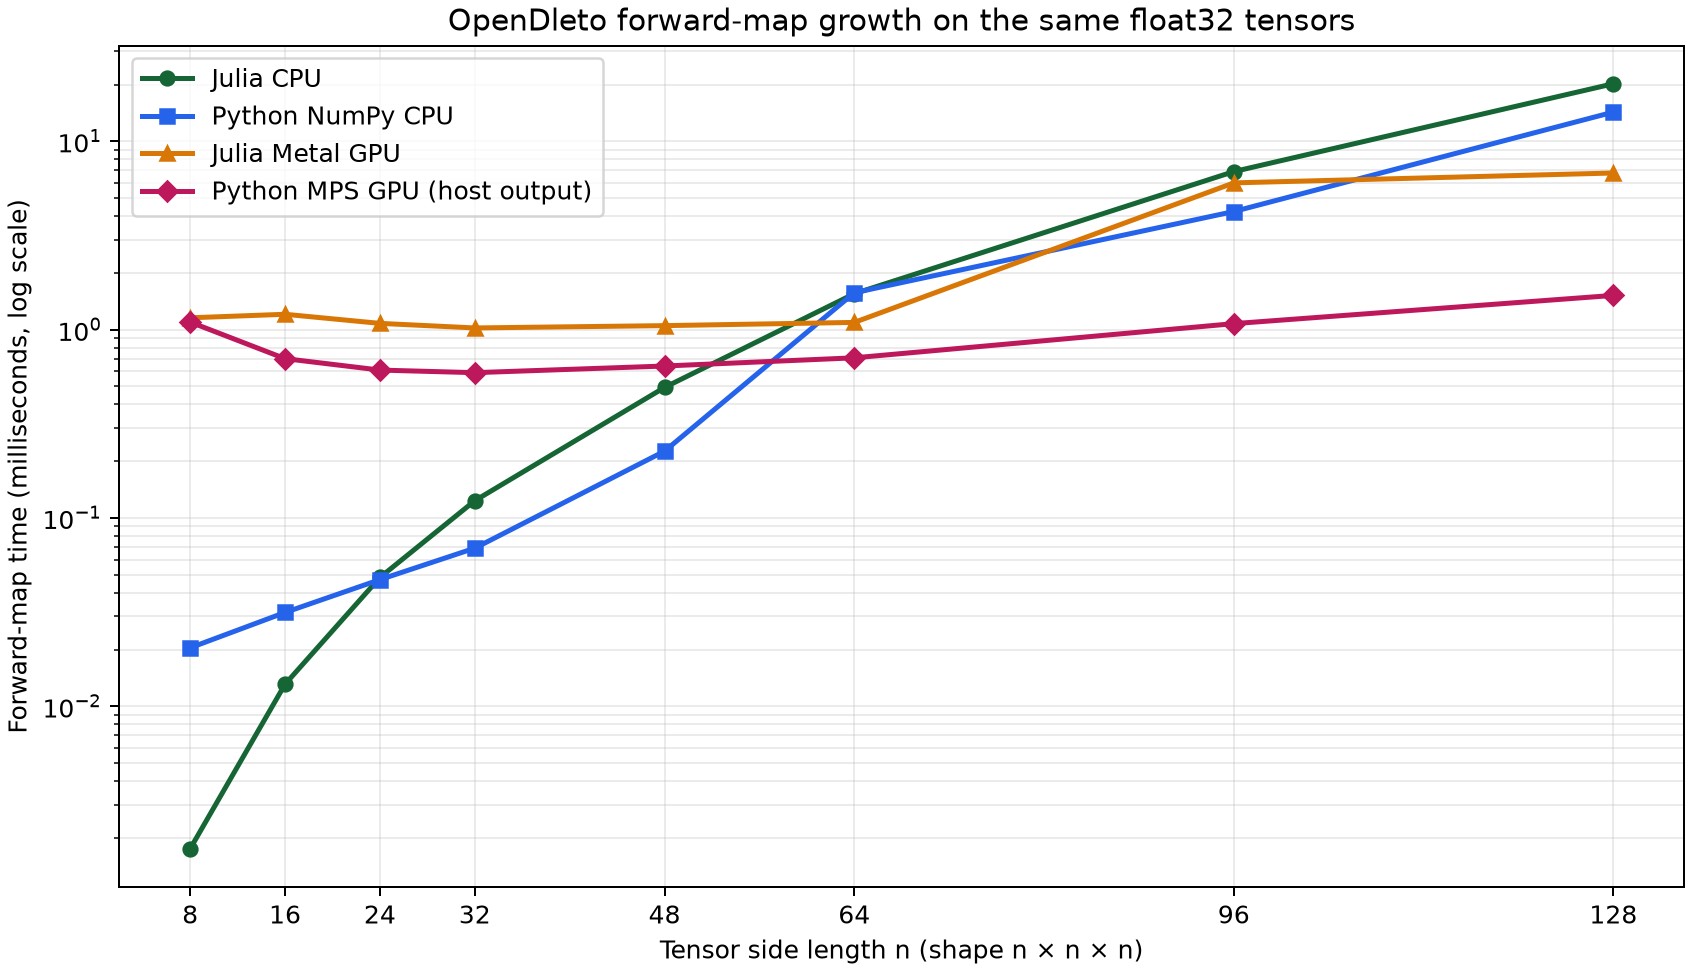
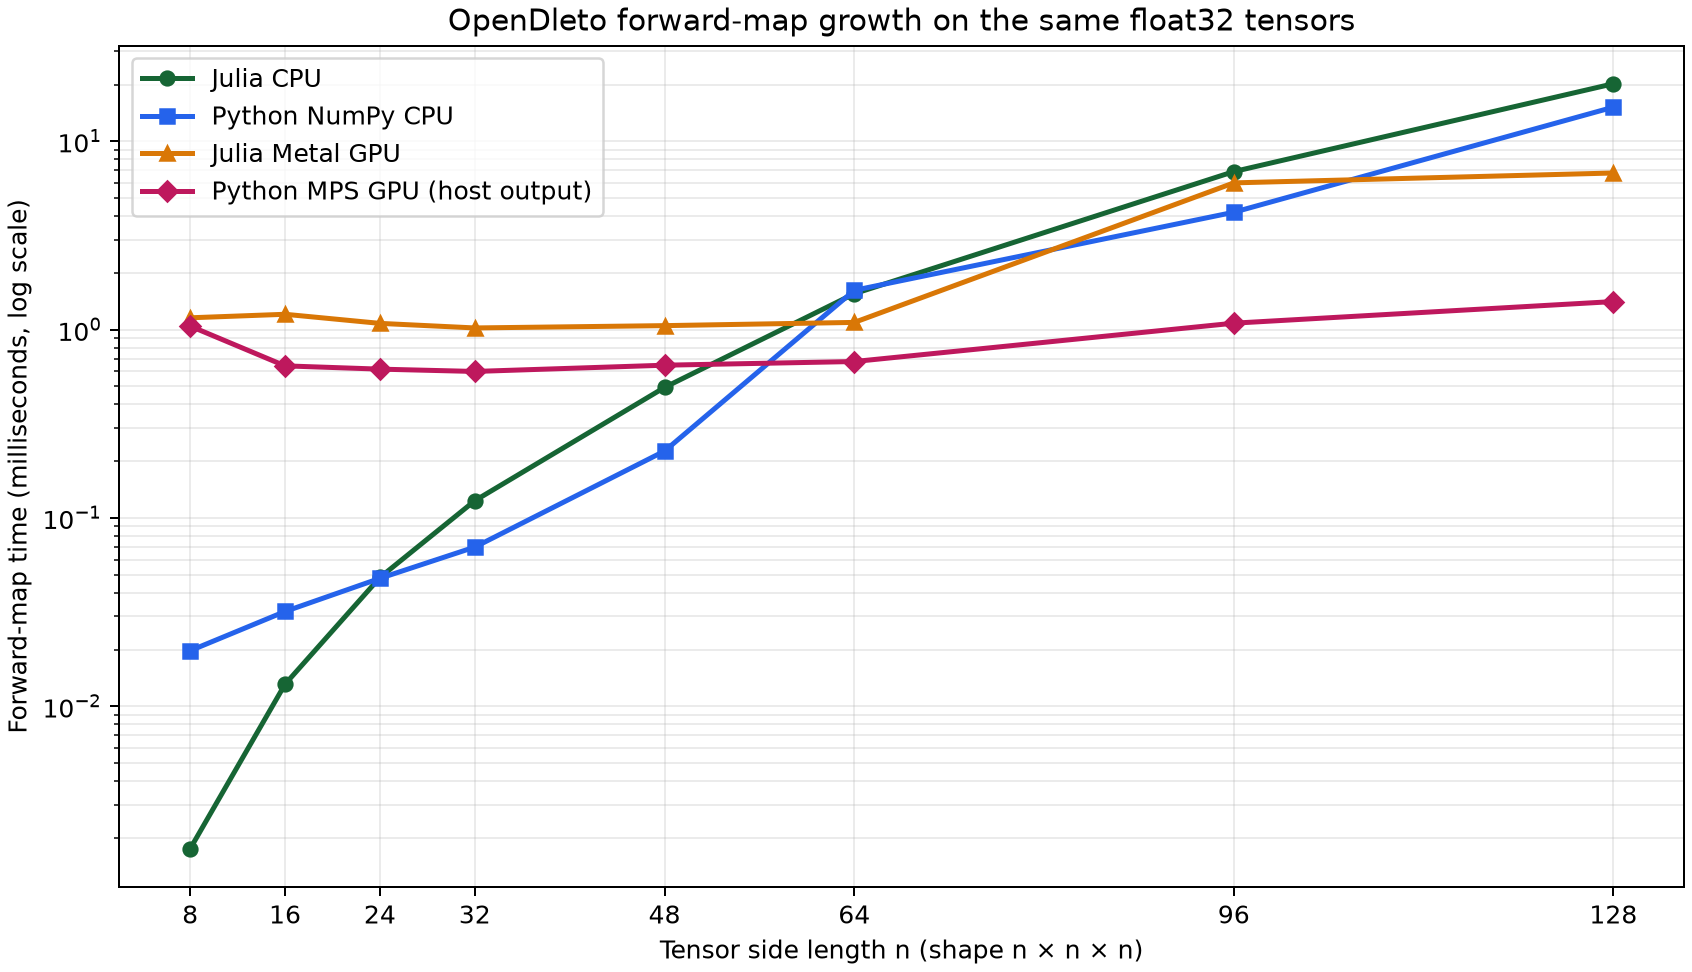
Clarify benchmark backends and profile solver normal map

diff --git a/bench/python_vs_julia/profile_normal.py b/bench/python_vs_julia/profile_normal.py
@@ -1,0 +1,23 @@
+"""Time the CPU normal operator D*D on saved Float32 tensors."""
+from pathlib import Path
+from statistics import median
+from time import perf_counter
+import argparse
+import numpy as np
+from opendleto import DerivationMap
+
+parser = argparse.ArgumentParser()
+parser.add_argument('folder', type=Path)
+args = parser.parse_args()
+for n in (64, 96, 128):
+    tensor = np.fromfile(args.folder / f'tensor_{n}.bin', dtype='<f8').reshape((n,n,n), order='F').astype('float32')
+    x = np.fromfile(args.folder / f'x_{n}.bin', dtype='<f8').astype('float32')
+    dmap = DerivationMap(tensor)
+    for _ in range(5):
+        dmap.normal(x)
+    samples = []
+    for _ in range(11):
+        start = perf_counter()
+        dmap.normal(x)
+        samples.append(1000 * (perf_counter() - start))
+    print(f'NORMAL n={n} backend=python_numpy ms={median(samples)}', flush=True)

diff --git a/bench/python_vs_julia/plot_growth.py b/bench/python_vs_julia/plot_growth.py
@@ -48,7 +48,7 @@ def main(folder: Path):
         })
     out = Path(__file__).parent
     with (out / 'results-2026-11-18.csv').open('w', newline='') as file:
-        writer = csv.DictWriter(file, fieldnames=rows[0].keys())
+        writer = csv.DictWriter(file, fieldnames=rows[0].keys(), lineterminator="\n")
         writer.writeheader()
         writer.writerows(rows)
     fig, ax = plt.subplots(figsize=(9.4, 5.4), layout='constrained')

diff --git a/bench/python_vs_julia/README.md b/bench/python_vs_julia/README.md
@@ -4,40 +4,50 @@ We measured the universal-chisel derivation map on the **same generic order-thre
 
 ![Line plot of forward-map time versus tensor side length from 8 to 128. Julia CPU and Python NumPy CPU are fastest at small sizes and rise sharply. Both GPU lines begin near one millisecond; Python MPS reaches about 1.5 milliseconds at 128, while Julia Metal reaches about 6.8 milliseconds. The vertical axis is logarithmic.](growth-2026-11-18.png)
 
-The plot shows **time for one forward-map application**. Lower is faster. The vertical axis uses a logarithmic scale so the small and large cases remain visible together. Each point is the median of 11 calls after five warmups, with one CPU and BLAS thread. Package loading, map construction, and the one-time tensor upload are excluded. Both GPU timings end with an output on the CPU; host-facing operator coordinates are supplied to both.
+The plot shows **time for one forward-map application**. Lower is faster. The vertical axis uses a logarithmic scale so the small and large cases remain visible together. Each point is the median of 11 calls after five warmups, with one CPU and BLAS thread. NumPy uses Apple Accelerate, capped with `VECLIB_MAXIMUM_THREADS=1`; Julia uses OpenBLAS, capped with `BLAS.set_num_threads(1)`. Package loading, map construction, and the one-time tensor upload are excluded. Both GPU timings end with an output on the CPU; host-facing operator coordinates are supplied to both.
 
 | Tensor | Julia CPU | Python NumPy CPU | Julia Metal GPU | Python MPS GPU |
 | --- | ---: | ---: | ---: | ---: |
-| 8³ | 0.0018 | 0.0204 | 1.1545 | 1.0958 |
-| 16³ | 0.0131 | 0.0315 | 1.2054 | 0.7007 |
-| 24³ | 0.0483 | 0.0470 | 1.0785 | 0.6093 |
-| 32³ | 0.1233 | 0.0690 | 1.0199 | 0.5902 |
-| 48³ | 0.4928 | 0.2261 | 1.0490 | 0.6402 |
-| 64³ | 1.5503 | 1.5686 | 1.0913 | 0.7078 |
-| 96³ | 6.8992 | 4.2345 | 6.0097 | 1.0750 |
-| 128³ | 20.1945 | 14.2777 | 6.7810 | 1.5181 |
+| 8³ | 0.0018 | 0.0197 | 1.1545 | 1.0430 |
+| 16³ | 0.0131 | 0.0318 | 1.2054 | 0.6415 |
+| 24³ | 0.0483 | 0.0477 | 1.0785 | 0.6163 |
+| 32³ | 0.1233 | 0.0700 | 1.0199 | 0.5991 |
+| 48³ | 0.4928 | 0.2264 | 1.0490 | 0.6467 |
+| 64³ | 1.5503 | 1.6155 | 1.0913 | 0.6765 |
+| 96³ | 6.8992 | 4.1975 | 6.0097 | 1.0810 |
+| 128³ | 20.1945 | 15.1653 | 6.7810 | 1.4079 |
 
-All times are milliseconds. At `128³`, Julia Metal was about 3.0 times faster than Julia CPU, and Python MPS was about 9.4 times faster than Python NumPy CPU. The Python MPS forward call was about 4.5 times faster than the Julia Metal call in this particular implementation and run. Around `64³`, both GPU paths began to beat their own CPU counterparts. Julia Metal's forward time rose from about 1 ms at `64³` to about 6–7 ms at `96³`; a second sweep reproduced that jump. These are measurements of the present kernels, including their host/device interface costs, rather than a general language or GPU ranking.
+All times are milliseconds. At `128³`, Julia Metal was about 3.0 times faster than Julia CPU, and Python MPS was about 10.8 times faster than Python NumPy CPU. The Python MPS forward call was about 4.8 times faster than the Julia Metal call in this particular implementation and run. Around `64³`, both GPU paths began to beat their own CPU counterparts. Julia Metal's forward time rose from about 1 ms at `64³` to about 6–7 ms at `96³`; a second sweep reproduced that jump. These are measurements of the present kernels, including their host/device interface costs, rather than a general language or GPU ranking.
 
 ## Adjoint and numerical agreement
 
-Julia Metal also supports the adjoint map. Its measured adjoint times were 1.031 ms at `64³`, 1.312 ms at `96³`, and 1.763 ms at `128³`; Julia CPU took 1.459, 6.344, and 19.244 ms respectively. Python NumPy CPU took 0.669, 2.241, and 6.535 ms. The current Python MPS backend does not implement the GPU adjoint, so no four-way adjoint or full GPU solver comparison is claimed.
+Julia Metal also supports the adjoint map. Its measured adjoint times were 1.031 ms at `64³`, 1.312 ms at `96³`, and 1.763 ms at `128³`; Julia CPU took 1.459, 6.344, and 19.244 ms respectively. Python NumPy CPU took 0.715, 2.174, and 6.630 ms. The current Python MPS backend does not implement the GPU adjoint, so no four-way adjoint or full GPU solver comparison is claimed.
 
 The saved outputs passed [the parity check](check_parity.py): maximum relative difference across forward and available adjoint outputs was `2.34e-6`. Forward outputs from the two CPU implementations matched exactly in `float32`; Julia Metal and Python MPS forward outputs agreed with Julia CPU to at most `6.8e-8` relative error. Float32 rounding explains the larger adjoint differences.
 
 A separate complete dense SVD on the same generic `4³` tensor took 0.109 ms in Julia and 0.922 ms in Python; both found nullity 2 at relative tolerance `1e-8`. That is a CPU-only small-map comparison. It does not compare the packages' different high-level solver policies.
+
+## What this benchmark says about performance
+
+The CPU columns compare different native matrix libraries as well as different OpenDleto code: this NumPy wheel links to Apple Accelerate, while Julia currently links to OpenBLAS. A separate one-thread, column-major `128² × 128` by `128 × 128` matrix multiply took about 0.585 ms with Accelerate through NumPy and 4.889 ms with OpenBLAS through Julia. Those isolated numbers do not by themselves explain every map timing, but they show why the CPU gap cannot be attributed to Python versus Julia as languages. Both maps also spend time moving between tensor layouts and accumulating axis actions.
+
+The Julia Metal forward kernel still has an optimization opportunity. An isolated `96³` stage check measured about 2.16 ms for its first matrix multiply, 1.90 ms for the middle multiply, and 0.35 ms for the tensor permutation. At `128³`, the corresponding times were 1.87, 1.70, and 0.51 ms. The sharp rise above `64³` is mainly in the matrix multiplies in this check; the precise driver or kernel-selection cause remains unproven. The Python GPU path also has avoidable overhead: it prepares operator matrices on the CPU and uploads them on every call.
+
+For the **normal operator** `D*D`, the solver's repeated hot path, the available comparison at `128³` is: Julia CPU 38.86 ms, Python NumPy CPU 20.65 ms, and Julia Metal 7.71 ms. Python MPS has no adjoint or normal-operator implementation yet. Thus the forward-map plot cannot rank complete derivation solves. Julia Metal already gives a substantial speedup for the full map that its solver actually uses.
 
 ## Reproduce
 
 The measured data are in [results-2026-11-18.csv](results-2026-11-18.csv). The scripts generate fresh shared inputs, save numerical outputs for parity checks, and regenerate the plot. Run from the repository root with Julia 1.12, the shared `@dleto-bench` Julia environment containing Metal, the project-local Python environment containing `opendleto[torch,dev]`, and a plotting Python environment containing Matplotlib:
 
 ```sh
-OPENBLAS_NUM_THREADS=1 python/.venv/bin/python bench/python_vs_julia/compare.py --output /tmp/opendleto-perf --sizes 4 8 16 24 32 48 64 96 128 --repeats 11
+VECLIB_MAXIMUM_THREADS=1 OPENBLAS_NUM_THREADS=1 python/.venv/bin/python bench/python_vs_julia/compare.py --output /tmp/opendleto-perf --sizes 4 8 16 24 32 48 64 96 128 --repeats 11
 JULIA_NUM_THREADS=1 OPENBLAS_NUM_THREADS=1 julia --compiled-modules=existing --project=. bench/python_vs_julia/compare.jl /tmp/opendleto-perf float32 8 16 24 32 48 64 96 128 | tee /tmp/opendleto-perf/julia-cpu-f32.log
 JULIA_LOAD_PATH='@:@dleto-bench:@stdlib' JULIA_NUM_THREADS=1 OPENBLAS_NUM_THREADS=1 julia --compiled-modules=existing --project=. bench/python_vs_julia/compare_metal.jl /tmp/opendleto-perf 8 16 24 32 48 64 96 128 | tee /tmp/opendleto-perf/julia-metal.log
-OPENBLAS_NUM_THREADS=1 python/.venv/bin/python bench/python_vs_julia/compare_accel.py --input /tmp/opendleto-perf --sizes 8 16 24 32 48 64 96 128 --repeats 11
+VECLIB_MAXIMUM_THREADS=1 OPENBLAS_NUM_THREADS=1 OMP_NUM_THREADS=1 python/.venv/bin/python bench/python_vs_julia/compare_accel.py --input /tmp/opendleto-perf --sizes 8 16 24 32 48 64 96 128 --repeats 11
 python/.venv/bin/python bench/python_vs_julia/check_parity.py /tmp/opendleto-perf
 python3 bench/python_vs_julia/plot_growth.py /tmp/opendleto-perf
+VECLIB_MAXIMUM_THREADS=1 OPENBLAS_NUM_THREADS=1 python/.venv/bin/python bench/python_vs_julia/profile_normal.py /tmp/opendleto-perf
+JULIA_LOAD_PATH='@:@dleto-bench:@stdlib' JULIA_NUM_THREADS=1 OPENBLAS_NUM_THREADS=1 julia --compiled-modules=existing --project=. bench/python_vs_julia/profile_normal.jl /tmp/opendleto-perf
 ```
 
 The two GPU commands require a process with Apple GPU access. On this machine the tool sandbox hides both Metal and MPS, so the GPU runs used an unsandboxed process. The CSV also includes a separate Python MPS device-resident forward time. MPS and Metal do not offer `float64` arithmetic here; the earlier CPU-only `float64` comparison remains a separate result.
